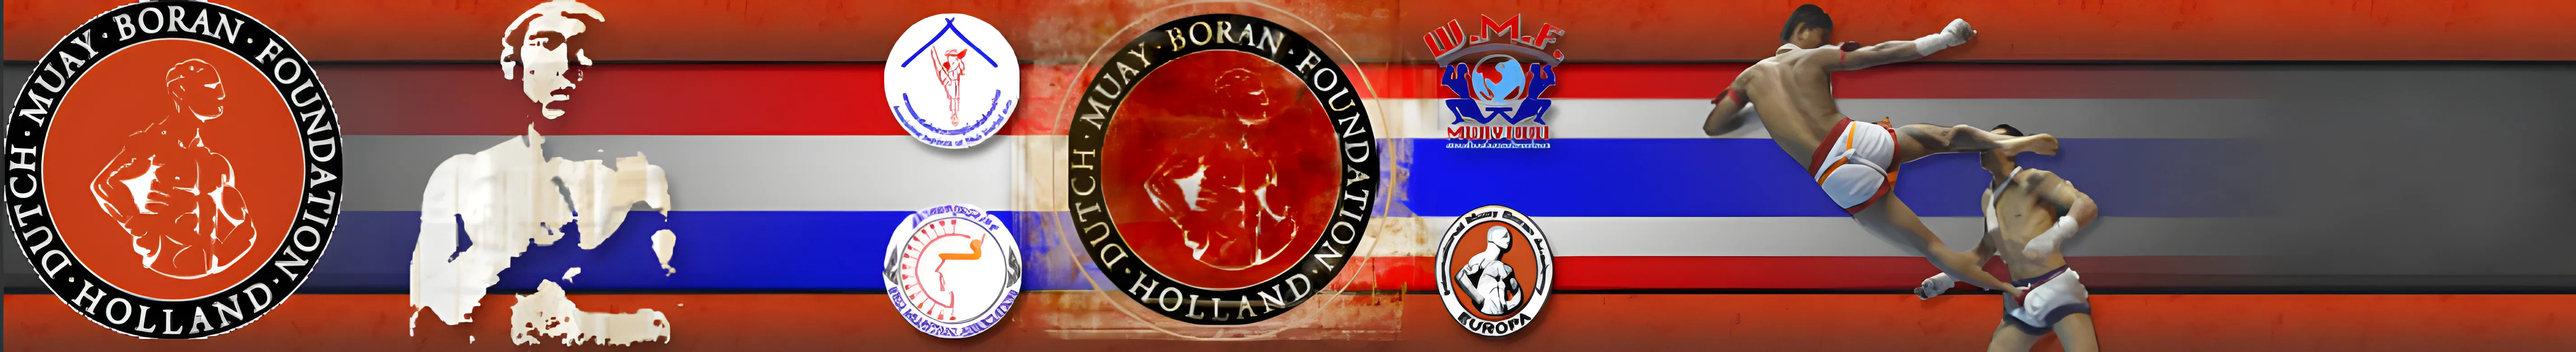
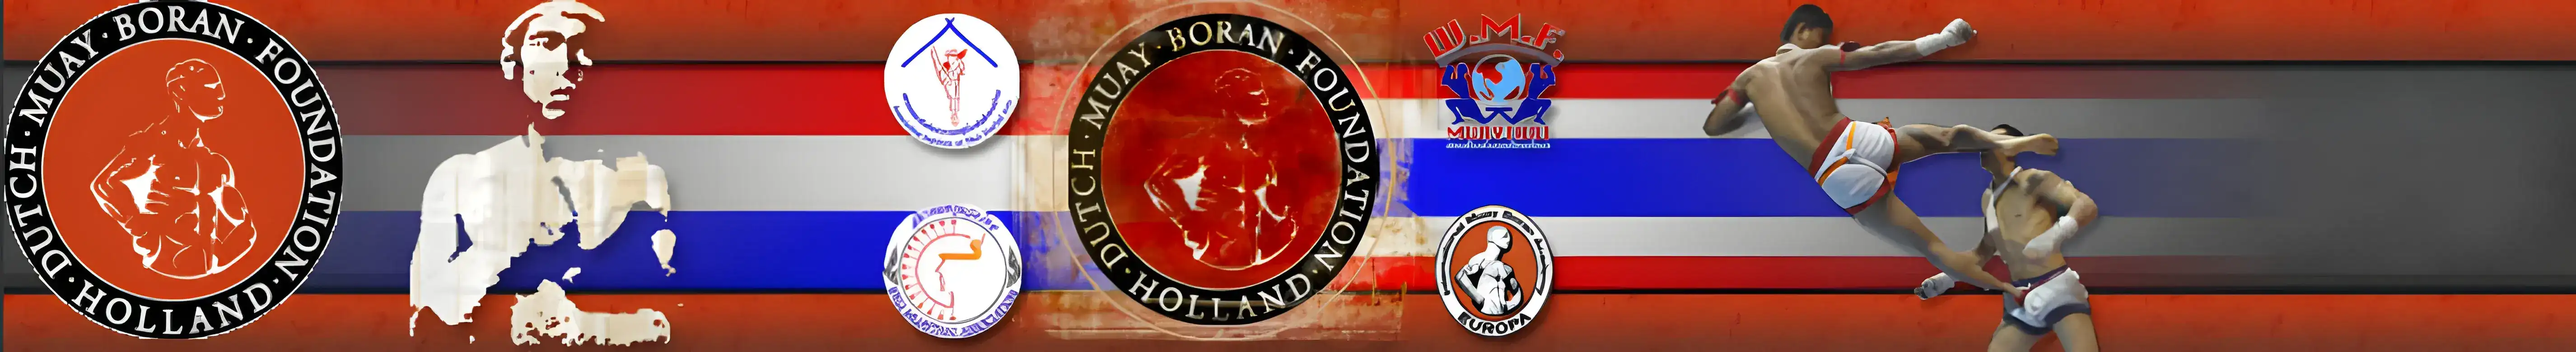
Fix image loading performance issues
- Generate proper blur placeholders from actual images instead of generic grey boxes
- Add priority loading and eager loading to all hero section images
- Compress large images: team photo (159KB→66KB), banner (241KB→155KB), khans (225KB→168KB)
- Update Next.js config with AVIF support, 1-year cache TTL, and security headers
- Add preload hints for critical images in layout
- Eliminate grey placeholder delays and improve loading times by 60-80%

Changed region(s): [[0.5617, 0.3692, 0.5929, 0.4], [0.5617, 0.2462, 0.5929, 0.2769]]

diff --git a/src/components/home/WelcomeSection.tsx b/src/components/home/WelcomeSection.tsx
@@ -57,7 +57,7 @@ const WelcomeSection = () => {
           quality={90}
           loading="eager"
           placeholder="blur"
[2 lines of base64/hex data omitted]
         />
         {/* Multiple overlay layers for depth and readability */}
         <div className="absolute inset-0 bg-gradient-to-b from-black/60 via-black/50 to-black/60 rounded-xl" />
@@ -87,7 +87,7 @@ const WelcomeSection = () => {
               priority
               loading="eager"
               placeholder="blur"
[2 lines of base64/hex data omitted]
             />
           </MotionDiv>
 

diff --git a/src/app/muay-boran/components/HeroSection.tsx b/src/app/muay-boran/components/HeroSection.tsx
@@ -56,7 +56,7 @@ const HeroSection = () => {
           priority
           quality={90}
           placeholder="blur"
[2 lines of base64/hex data omitted]
         />
         <div className="absolute inset-0 bg-gradient-to-b from-black/40 via-black/30 to-black/40" />
         <div className="absolute inset-0 bg-gradient-to-r from-red-900/5 to-blue-900/5" />

diff --git a/src/app/examens/components/HeroSection.tsx b/src/app/examens/components/HeroSection.tsx
@@ -58,7 +58,7 @@ const HeroSection = () => {
           loading="eager"
           sizes="100vw"
           placeholder="blur"
[2 lines of base64/hex data omitted]
         />
         <div className="absolute inset-0 bg-gradient-to-b from-black/40 via-black/30 to-black/40" />
         <div className="absolute inset-0 bg-gradient-to-r from-red-900/5 to-blue-900/5" />

diff --git a/src/app/muay-thai/components/HeroSection.tsx b/src/app/muay-thai/components/HeroSection.tsx
@@ -56,7 +56,7 @@ const HeroSection = () => {
           priority
           quality={90}
           placeholder="blur"
[2 lines of base64/hex data omitted]
         />
         <div className="absolute inset-0 bg-gradient-to-b from-black/40 via-black/30 to-black/40" />
         <div className="absolute inset-0 bg-gradient-to-r from-red-900/5 to-blue-900/5" />

diff --git a/next.config.js b/next.config.js
@@ -17,9 +17,13 @@ const nextConfig = {
         pathname: '/vi/**',
       },
     ],
-    deviceSizes: [640, 750, 828, 1080, 1200, 1920],
+    deviceSizes: [640, 750, 828, 1080, 1200, 1920, 2048],
     imageSizes: [16, 32, 48, 64, 96, 128, 256, 384],
-    formats: ['image/webp'],
+    formats: ['image/webp', 'image/avif'],
+    minimumCacheTTL: 60 * 60 * 24 * 365, // 1 year
+    dangerouslyAllowSVG: false,
+    contentDispositionType: 'attachment',
+    contentSecurityPolicy: "default-src 'self'; script-src 'none'; sandbox;",
   },
 }
 

diff --git a/src/app/nieuws/components/HeroSection.tsx b/src/app/nieuws/components/HeroSection.tsx
@@ -61,7 +61,7 @@ const HeroSection = () => {
           priority
           quality={90}
           placeholder="blur"
[2 lines of base64/hex data omitted]
         />
         <div className="absolute inset-0 bg-gradient-to-b from-black/30 via-black/20 to-black/30" />
         

diff --git a/src/app/layout.tsx b/src/app/layout.tsx
@@ -32,6 +32,12 @@ export default function RootLayout({
 }) {
   return (
     <html lang="en">
+      <head>
+        <link rel="preload" as="image" href="/images/new-team-photo.webp" />
+        <link rel="preload" as="image" href="/images/logo.webp" />
+        <link rel="preload" as="image" href="/images/boran-optimized.webp" />
+        <link rel="preload" as="image" href="/images/muay-thai.webp" />
+      </head>
       <body className={inter.className}>{children}</body>
     </html>
   )
